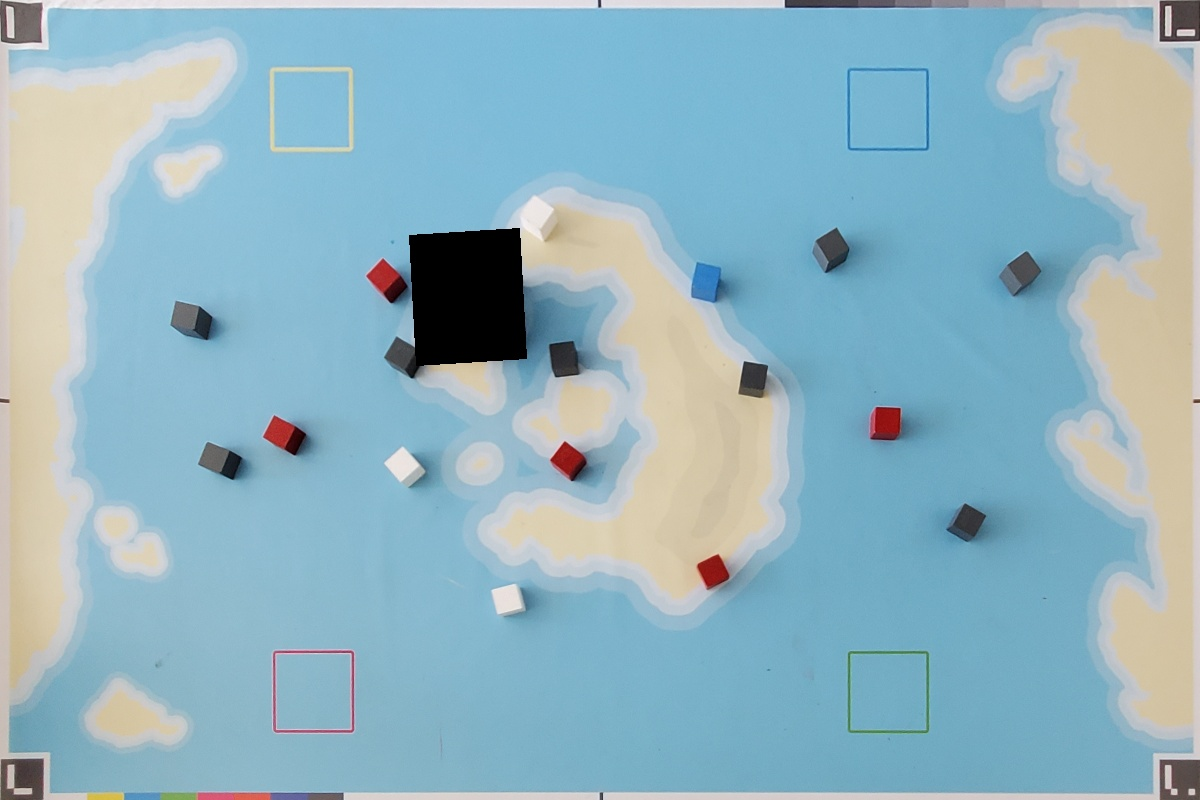
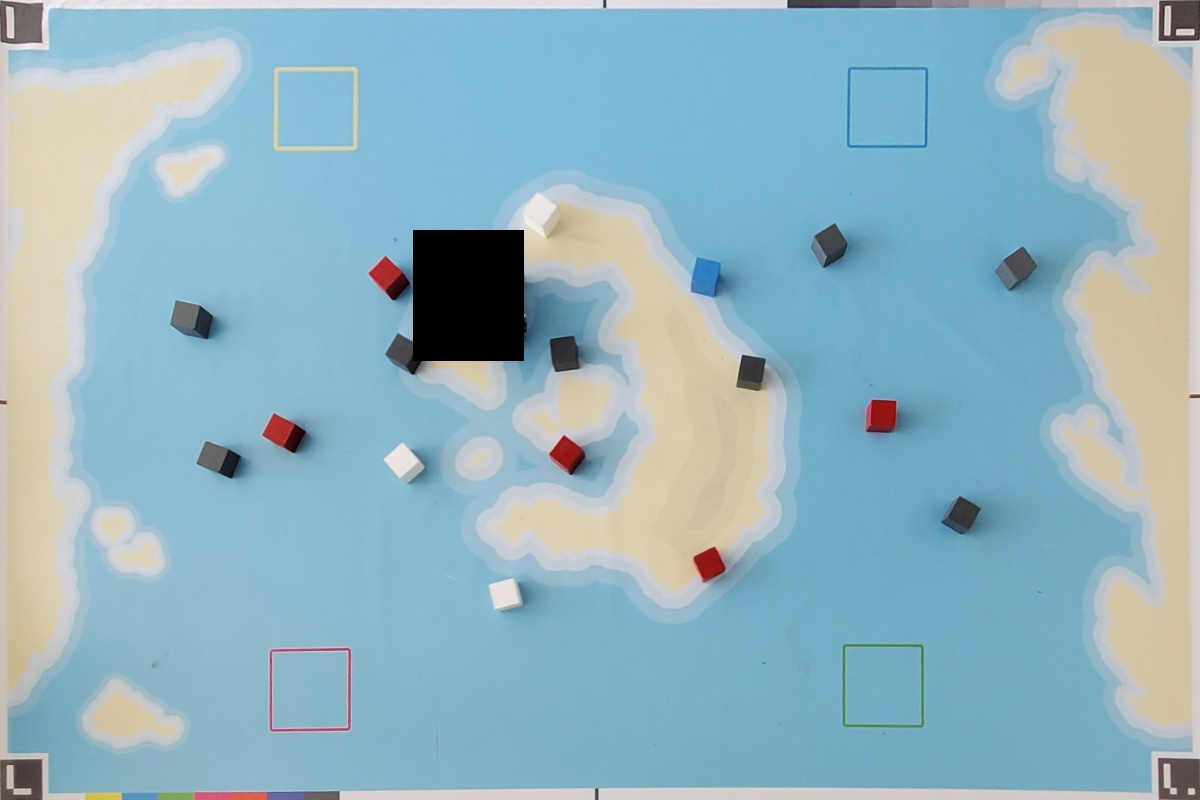
Ajustements 869257, correction de la distortion

diff --git a/pythonProject/main.py b/pythonProject/main.py
@@ -30,27 +30,33 @@ def get_calibration_parameters(img_dir):
 
     all_charuco_ids = []
     all_charuco_corners = []
+    imgSize = None
 
     # Loop over images and extraction of corners
     for image_file in image_files:
         image = cv2.imread(image_file)
-        image = cv2.cvtColor(image, cv2.COLOR_BGR2GRAY)
-        imgSize = image.shape
-        image_copy = image.copy()
-        marker_corners, marker_ids, rejectedCandidates = detector.detectMarkers(image)
+        gray = cv2.cvtColor(image, cv2.COLOR_BGR2GRAY)
+        if imgSize is None:  # Calculate imgSize only once
+            imgSize = gray.shape
+        image_copy = gray.copy()
+        marker_corners, marker_ids, rejectedCandidates = detector.detectMarkers(gray)
         if marker_ids is not None and len(marker_ids) > 0:  # Check if markers are detected
-            ret, charucoCorners, charucoIds = cv2.aruco.interpolateCornersCharuco(marker_corners, marker_ids, image, board)
+            ret, charucoCorners, charucoIds = cv2.aruco.interpolateCornersCharuco(marker_corners, marker_ids, gray,
+                                                                                  board)
             if ret:
                 all_charuco_corners.append(charucoCorners)
                 all_charuco_ids.append(charucoIds)
-
         else:
-            print(f"Pas de marker détecté")
+            print(f"No marker detected in {image_file}")
+
+    if imgSize is None:
+        print("Error: No images found in the directory")
+        return None, None
 
     # Calibrate camera with extracted information
     result, mtx, dist, rvecs, tvecs = cv2.aruco.calibrateCameraCharuco(all_charuco_corners, all_charuco_ids, board,
                                                                        imgSize, None, None)
-    return mtx, dist
+    return mtx, dist.flatten()
 
 
 def calculate_perspective_transform_matrix(Corner1, Corner2, Corner3, Corner4, size):
@@ -95,25 +101,26 @@ final_size = (1200, 800)
 
 img_dir = "C:\Documents\Foundation_project\pythonProject\Images"
 
-'''SENSOR = 'monochrome'
+SENSOR = 'monochrome'
 LENS = 'S10_Arthur_0.7'
 OUTPUT_JSON = 'Calibration.json'
 
-mtx, dist = get_calibration_parameters(img_dir)
+'''mtx, dist = get_calibration_parameters(img_dir)
 data = {"sensor": SENSOR, "lens": LENS, "mtx": mtx.tolist(), "dist": dist.tolist()}
 
 with open(OUTPUT_JSON, 'w') as json_file:
     json.dump(data, json_file, indent=4)
 
-print(f'Data has been saved to {OUTPUT_JSON}')
+print(f'Data has been saved to {OUTPUT_JSON}')'''
 
 json_file_path = './Calibration.json'
 
 with open(json_file_path, 'r') as file: # Read the JSON file
     json_data = json.load(file)
 
+
 mtx = np.array(json_data['mtx'])
-dst = np.array(json_data['dist'])'''
+dist = np.array(json_data['dist'])
 
 
 if TEST != 1:
@@ -166,10 +173,10 @@ while True:
                 cpt = 0
 
     cv2.imwrite("Images\Frame.jpg", frame)
-    '''h, w = frame.shape[:2]
-    newcameramtx, roi = cv2.getOptimalNewCameraMatrix(mtx, dst, (w, h), 1, (w, h))
-    frame = cv2.undistort(frame, mtx, dst, None, newcameramtx)
-    cv2.imwrite("Images\Corrected_frame.jpg", frame)'''
+    h, w = frame.shape[:2]
+    newcameramtx, roi = cv2.getOptimalNewCameraMatrix(mtx, dist, (w, h), 1, (w, h))
+    frame = cv2.undistort(frame, mtx, dist, None, newcameramtx)
+    cv2.imwrite("Images\Corrected_frame.jpg", frame)
 
     gray = cv2.cvtColor(frame, cv2.COLOR_BGR2GRAY)
 
@@ -201,7 +208,6 @@ while True:
         RB = 132
         tailleRB = 75
         # Saving the images to a file
-        cv2.imwrite("Images\Frame.jpg", frame)
         cv2.imwrite("Images\Transformed_image.jpg", dst)
 
         vector_img = cv2.imread("Images\Transformed_image.jpg")
@@ -401,7 +407,7 @@ while True:
             elif i == 2:
                 # Grey
                 bound_lower = np.array(
-                    [mean_bgr_values[0][0] - 15, mean_bgr_values[0][1] - 15, mean_bgr_values[0][2] - 15])
+                    [mean_bgr_values[0][0] - 25, mean_bgr_values[0][1] - 25, mean_bgr_values[0][2] - 25])
                 bound_upper = np.array(
                     [mean_bgr_values[3][0] - 5, mean_bgr_values[3][1] - 5, mean_bgr_values[3][1] - 5])
                 grey_mask = cv2.inRange(cropped_image, bound_lower, bound_upper)
